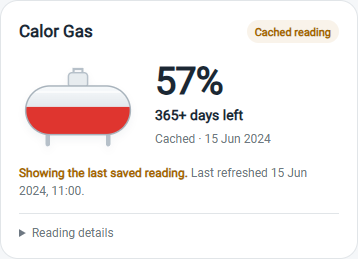
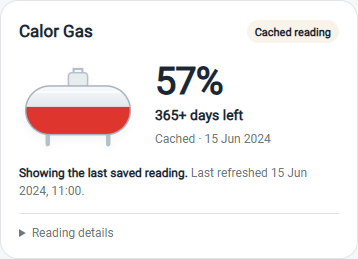
Finish native beta acceptance and improve card defaults

Changed region(s): [[0.0307, 0.6486, 0.5223, 0.7104], [0.7067, 0.0927, 0.9218, 0.1544]]

diff --git a/custom_components/calor_gas/frontend/calor-gas-card.js b/custom_components/calor_gas/frontend/calor-gas-card.js
@@ -10,14 +10,14 @@ const STYLES = [
   "ha-card.low{border-color:#d9383270;background:linear-gradient(140deg,#df352f0d,transparent)}",
   "header{display:flex;align-items:center;justify-content:space-between;gap:10px;margin-bottom:8px}",
   "h2{font-size:17px;line-height:24px;font-weight:650;margin:0;overflow:hidden;text-overflow:ellipsis;white-space:nowrap}",
-  ".badge{font-size:11px;font-weight:600;white-space:nowrap;padding:4px 8px;border-radius:12px;background:#2e7d3212;color:#327548;flex-shrink:0}",
-  ".cached .badge{background:#b56d0015;color:#a66400}.unavailable .badge{background:#7a879012;color:var(--secondary-text-color,#6e7882)}",
+  ".badge{font-size:11px;font-weight:600;white-space:nowrap;padding:4px 8px;border-radius:12px;background:#2e7d3212;color:var(--primary-text-color,#1c2733);flex-shrink:0}",
+  ".cached .badge{background:#b56d0015}.unavailable .badge{background:#7a879012;color:var(--secondary-text-color,#6e7882)}",
   ".body{display:grid;grid-template-columns:minmax(76px,118px) minmax(0,1fr);gap:18px;align-items:center;min-height:104px;cursor:pointer;border-radius:10px;outline-offset:3px}",
   ".tank{width:100%;align-self:center}.tank svg{display:block;width:100%;filter:drop-shadow(0 4px 4px #0d20300c)}",
   ".metrics{min-width:0}.level{font-size:38px;font-weight:700;line-height:1.1;letter-spacing:-1px;white-space:nowrap}.low .level{color:#d32f2f}",
   ".unavailable .level{font-size:22px;letter-spacing:0}.compact.unavailable .level{font-size:13px}.days{font-size:14px;line-height:23px;font-weight:600;margin-top:3px}.source{font-size:12px;color:var(--secondary-text-color,#6e7882);line-height:18px;margin-top:3px}",
   ".notice{font-size:12px;line-height:18px;color:var(--secondary-text-color,#6e7882);padding:8px 0 2px}",
-  ".notice strong{color:#a66400;font-weight:600}details{border-top:1px solid var(--divider-color,#e1e5e8);margin-top:12px;padding-top:10px}",
+  ".notice strong{color:var(--primary-text-color,#1c2733);font-weight:600}details{border-top:1px solid var(--divider-color,#e1e5e8);margin-top:12px;padding-top:10px}",
   "summary{cursor:pointer;font-size:12px;color:var(--secondary-text-color,#6e7882)}dl{display:grid;grid-template-columns:1fr 1.2fr;gap:7px 10px;font-size:12px;margin:12px 0 0;line-height:18px}dt{color:var(--secondary-text-color,#6e7882)}dd{margin:0;text-align:right;overflow-wrap:anywhere}",
   "a{color:var(--primary-color,#168bb0);font-size:12px;text-decoration:none}.links{display:flex;justify-content:space-between;gap:12px;margin-top:12px}",
   "ha-card.compact{padding:10px 12px;min-height:94px}ha-card.compact header{display:none}ha-card.compact .body{min-height:72px;grid-template-columns:minmax(44px,64px) minmax(0,1fr);gap:8px}ha-card.compact .level{font-size:28px}ha-card.compact .days{font-size:12px;line-height:18px}ha-card.compact .source{font-size:11px;line-height:16px}.compact .notice,.compact .links,.compact details{display:none}",
@@ -66,7 +66,7 @@ export class CalorGasCard extends HTMLElement {
   }
   disconnectedCallback() { this._unsubscribe?.(); this._unsubscribe = undefined; }
   getCardSize() { return this._config?.compact ? 2 : this._config?.show_details ? 5 : 3; }
-  getGridOptions() { return {columns: 6, min_columns: 6, min_rows: this._config?.compact ? 2 : 3}; }
+  getGridOptions() { return {columns: this._config?.compact ? 6 : 12, min_columns: 6, min_rows: this._config?.compact ? 2 : 3}; }
   _moreInfo() {
     this.dispatchEvent(new CustomEvent("hass-more-info", {
       bubbles: true, composed: true, detail: {entityId: this._config.entity},

diff --git a/README.md b/README.md
@@ -1,7 +1,4 @@
-<picture>
-  <source media="(prefers-color-scheme: dark)" srcset="custom_components/calor_gas/brand/dark_logo@2x.png">
-  <img alt="Calor Gas for Home Assistant" src="custom_components/calor_gas/brand/logo@2x.png" width="512">
-</picture>
+<img alt="Calor Gas logo" src="https://raw.githubusercontent.com/mbsintegrations/HomeAssistant-CalorGas/main/custom_components/calor_gas/brand/icon.png" width="112">
 
 # Calor Gas for Home Assistant
 
@@ -224,7 +221,7 @@ The Python suite exercises the real parser, cache, coordinator, sensors, credent
 
 GitHub Actions also run the official **HACS validator** and **Hassfest**, without ignored checks. See [HACS compliance and release checks](docs/HACS.md), [contributing](CONTRIBUTING.md), [changes](CHANGELOG.md) and [security reporting](SECURITY.md).
 
-The backend builds on a privately used installation. The first public beta adds reusable packaging and the card; adapter/browser tests are not a substitute for a fresh end-to-end Home Assistant acceptance test.
+Fresh Home Assistant 2026.10.1 acceptance checks verified installation through HACS, the native credential popup, a successful portal connection, all six sensors, local branding, persistent Store creation, automatic card resource registration, both card presets in the picker, visual editing and native more-info. Both presets were rendered in the native light and dark themes. Portal-outage and restart-cache behaviour are covered by the regression suite; physical tank accuracy is not verified by software tests.
 
 ## License
 

diff --git a/CHANGELOG.md b/CHANGELOG.md
@@ -9,6 +9,7 @@ First public beta, packaged as a HACS custom integration under GNU GPL v3.0 only
 - Persistent validated snapshots retained during portal outages and restarts.
 - Capped forecasts such as `365+` preserve their lower-bound meaning.
 - Two tank-card presets, with or without quick links, a visual editor, phone/compact layouts and automatic light/dark styling.
+- Full-width standard cards, compact presets and readable status text in both themes.
 - Automatic storage-managed module registration and documented YAML fallback.
 - Original local logos, privacy-filtered diagnostics, regression tests and CI validation.
 
